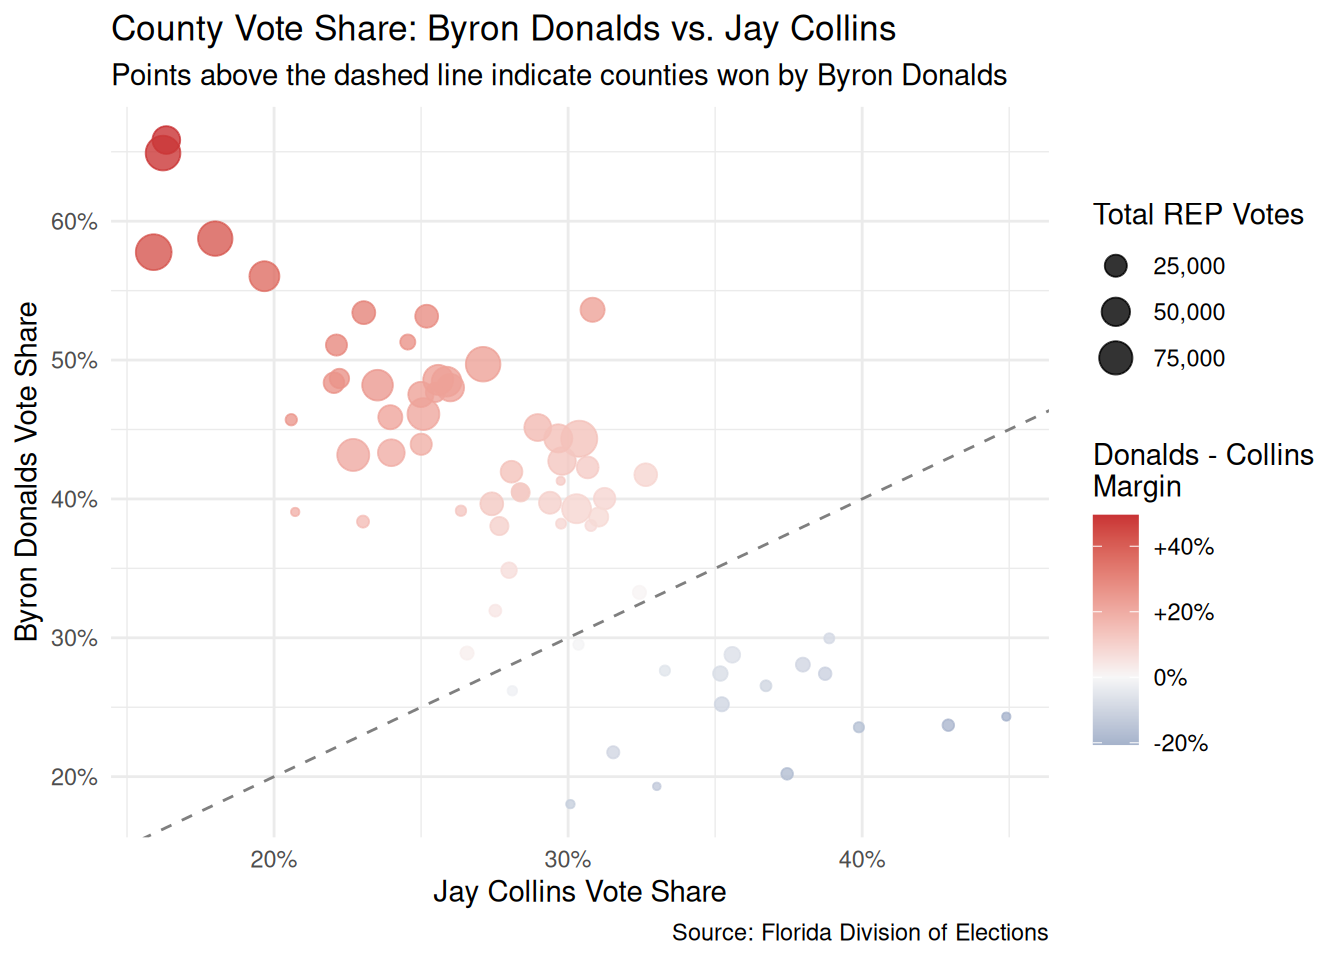
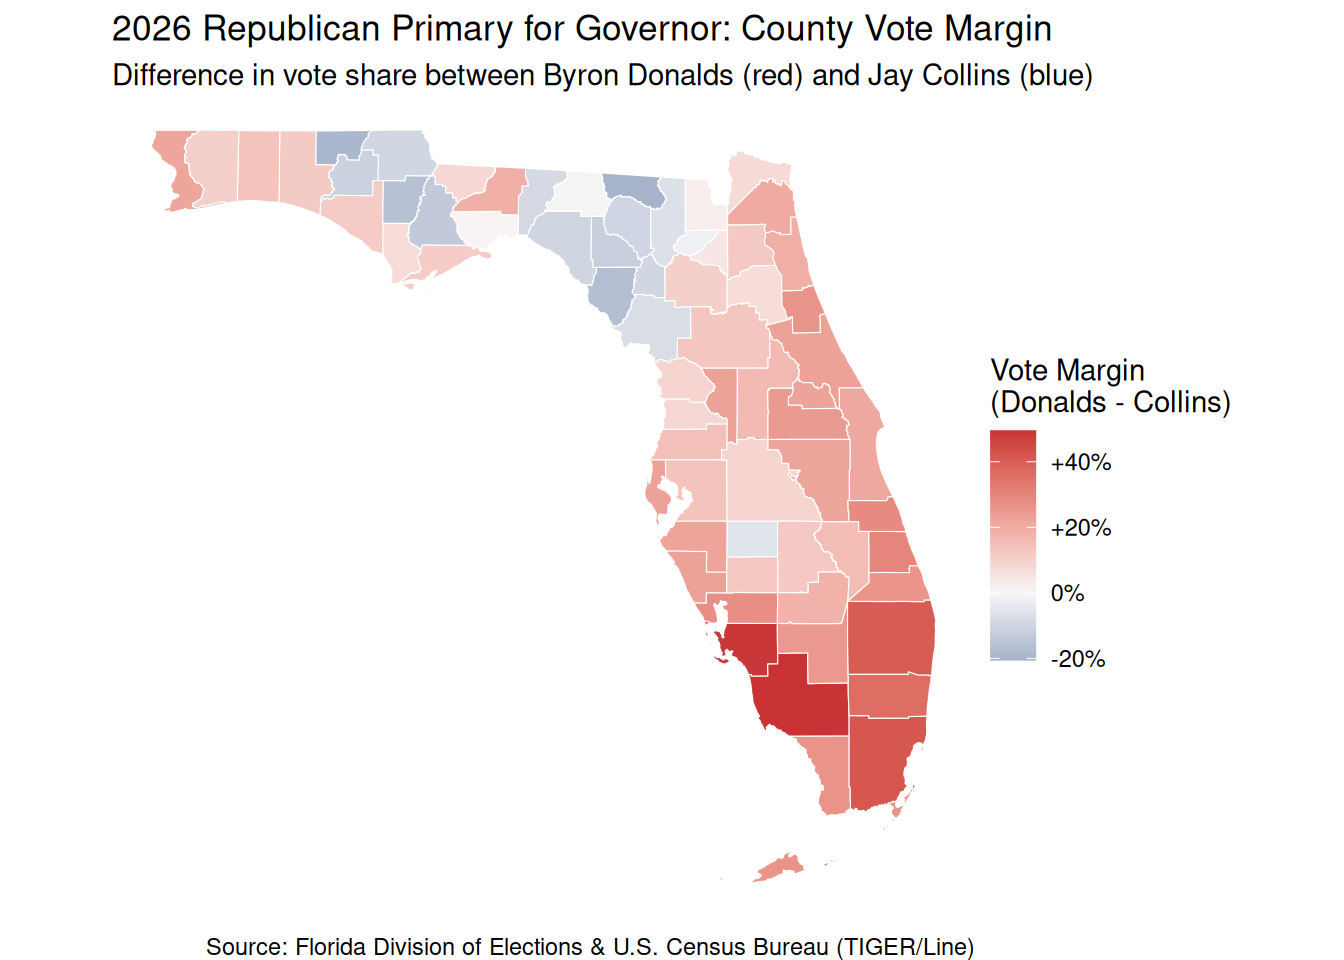
Built site for gh-pages

diff --git a/analysis.html b/analysis.html
@@ -69,18 +69,6 @@ ul.task-list li input[type="checkbox"] {
 </header>
 
 
-<section id="statewide-candidate-vote-totals" class="level2">
-<h2 class="anchored" data-anchor-id="statewide-candidate-vote-totals">Statewide Candidate Vote Totals</h2>
-<div class="cell">
-<div class="cell-output-display">
-<div>
-<figure class="figure">
-<p><img src="analysis_files/figure-html/unnamed-chunk-2-1.png" class="img-fluid figure-img" width="672"></p>
-</figure>
-</div>
-</div>
-</div>
-</section>
 <section id="county-level-vote-margin-analysis" class="level2">
 <h2 class="anchored" data-anchor-id="county-level-vote-margin-analysis">County-Level Vote Margin Analysis</h2>
 <section id="scatter-plot-byron-donalds-vs.-jay-collins-vote-share-by-county" class="level3">
@@ -89,7 +77,7 @@ ul.task-list li input[type="checkbox"] {
 <div class="cell-output-display">
 <div>
 <figure class="figure">
-<p><img src="analysis_files/figure-html/unnamed-chunk-4-1.png" class="img-fluid figure-img" width="672"></p>
+<p><img src="analysis_files/figure-html/unnamed-chunk-3-1.png" class="img-fluid figure-img" width="672"></p>
 </figure>
 </div>
 </div>
@@ -101,7 +89,7 @@ ul.task-list li input[type="checkbox"] {
 <div class="cell-output-display">
 <div>
 <figure class="figure">
-<p><img src="analysis_files/figure-html/unnamed-chunk-5-1.png" class="img-fluid figure-img" width="672"></p>
+<p><img src="analysis_files/figure-html/unnamed-chunk-4-1.png" class="img-fluid figure-img" width="672"></p>
 </figure>
 </div>
 </div>

diff --git a/index.html b/index.html
@@ -69,18 +69,6 @@ ul.task-list li input[type="checkbox"] {
 </header>
 
 
-<section id="statewide-candidate-vote-totals" class="level2">
-<h2 class="anchored" data-anchor-id="statewide-candidate-vote-totals">Statewide Candidate Vote Totals</h2>
-<div class="cell">
-<div class="cell-output-display">
-<div>
-<figure class="figure">
-<p><img src="analysis_files/figure-html/unnamed-chunk-2-1.png" class="img-fluid figure-img" width="672"></p>
-</figure>
-</div>
-</div>
-</div>
-</section>
 <section id="county-level-vote-margin-analysis" class="level2">
 <h2 class="anchored" data-anchor-id="county-level-vote-margin-analysis">County-Level Vote Margin Analysis</h2>
 <section id="scatter-plot-byron-donalds-vs.-jay-collins-vote-share-by-county" class="level3">
@@ -89,7 +77,7 @@ ul.task-list li input[type="checkbox"] {
 <div class="cell-output-display">
 <div>
 <figure class="figure">
-<p><img src="analysis_files/figure-html/unnamed-chunk-4-1.png" class="img-fluid figure-img" width="672"></p>
+<p><img src="analysis_files/figure-html/unnamed-chunk-3-1.png" class="img-fluid figure-img" width="672"></p>
 </figure>
 </div>
 </div>
@@ -101,7 +89,7 @@ ul.task-list li input[type="checkbox"] {
 <div class="cell-output-display">
 <div>
 <figure class="figure">
-<p><img src="analysis_files/figure-html/unnamed-chunk-5-1.png" class="img-fluid figure-img" width="672"></p>
+<p><img src="analysis_files/figure-html/unnamed-chunk-4-1.png" class="img-fluid figure-img" width="672"></p>
 </figure>
 </div>
 </div>
